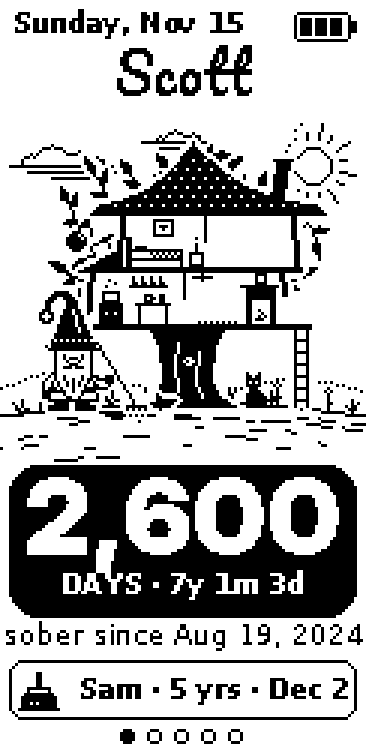
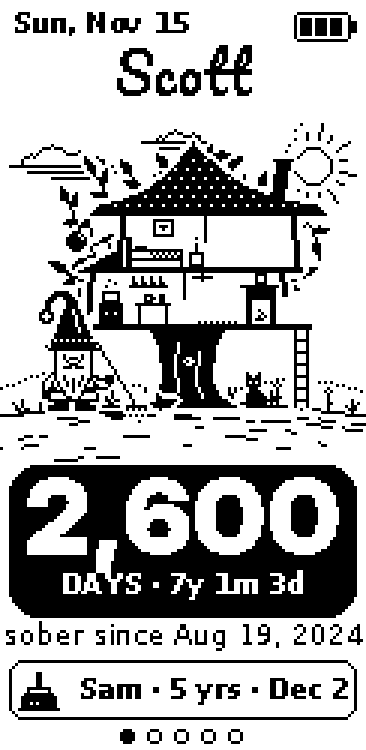
v1.6-world3: short weekday, no forced full refresh, drop Friends/Clear friends from settings
- Main screen shows the weekday as Wed instead of Wednesday.
- Remove the full refresh forced after 10 partial refreshes; full refresh still happens on going home and after the busy power-cycle recovery.
- Settings menu no longer has Friends or Clear friends.

Claude-Session: https://claude.ai/code/session_01Qm65J9CvrfsAJdUfebPo89

Changed region(s): [[0.1803, 0.0, 0.541, 0.0613], [0.571, 0.0, 0.6612, 0.0613]]

diff --git a/firmware/sobergotchi/src/app.cpp b/firmware/sobergotchi/src/app.cpp
@@ -31,7 +31,7 @@ static Mode mode = M_CAROUSEL;
 static uint8_t carousel = 0;
 static int reflectPage = 0, reflectPages = 1;
 static int friendSel = -1, menuSel = -1;
-static bool confirmDelete = false, confirmClear = false;
+static bool confirmDelete = false;
 static bool sessionDirty = false;  // a partial refresh happened since the last full one
 
 // sorted view of friends: soonest anniversary first
@@ -265,9 +265,9 @@ static int nextFriend() {  // index into store::friends of the soonest anniversa
 // ---------------------------------------------------------------------------
 // values for the screens
 // ---------------------------------------------------------------------------
-static const char* MENU_LABELS[] = {"Sober date", "Today", "Name", "Phone", "Friends", "Clear friends", "Battery", "Version", "Back"};
-static const int MENU_COUNT = 9;
-static const int MENU_BACK = 8;
+static const char* MENU_LABELS[] = {"Sober date", "Today", "Name", "Phone", "Battery", "Version", "Back"};
+static const int MENU_COUNT = 7;
+static const int MENU_BACK = 6;
 
 class Data : public UiData {
  public:
@@ -423,14 +423,12 @@ class Data : public UiData {
       case 1: formatDate(today(), "MMM d, yyyy", out, n); break;
       case 2: snprintf(out, n, "%s", store::settings.name); break;
       case 3: if (store::settings.phone[0]) formatPhone(store::settings.phone, out, n); else snprintf(out, n, "not set"); break;
-      case 4: snprintf(out, n, "%d", store::friendCount); break;
-      case 5: snprintf(out, n, "%s", confirmClear ? "press \201 again to clear all" : ""); break;
-      case 6: {
+      case 4: {
         int cv = (int)(hw::batteryVolts() * 100 + 0.5f);  // no float printf on this core
         snprintf(out, n, "%d%%  \177  %d.%02d V%s", hw::batteryPercent(), cv / 100, cv % 100, hw::charging() ? "  \177  charging" : "");
         break;
       }
-      case 7: snprintf(out, n, "%s", FIRMWARE_VERSION); break;
+      case 5: snprintf(out, n, "%s", FIRMWARE_VERSION); break;
     }
   }
 
@@ -629,7 +627,7 @@ static void handleKey(Event e) {
       else if (e == EV_KEY2) {
         if (carousel == 1) reflectPage = (reflectPage + 1) % (reflectPages ? reflectPages : 1);
         else if (carousel == 2 && store::friendCount) { mode = M_FRIENDS; friendSel = 0; }
-        else if (carousel == 3) { mode = M_MENU; menuSel = 0; confirmClear = false; }
+        else if (carousel == 3) { mode = M_MENU; menuSel = 0; }
       }
       break;
 
@@ -659,8 +657,8 @@ static void handleKey(Event e) {
       break;
 
     case M_MENU:
-      if (e == EV_KEY1 && menuSel > 0) { menuSel--; confirmClear = false; }
-      else if (e == EV_KEY3 && menuSel < MENU_COUNT - 1) { menuSel++; confirmClear = false; }
+      if (e == EV_KEY1 && menuSel > 0) menuSel--;
+      else if (e == EV_KEY3 && menuSel < MENU_COUNT - 1) menuSel++;
       else if (e == EV_KEY2_LONG) mode = M_CAROUSEL;
       else if (e == EV_KEY2) {
         switch (menuSel) {
@@ -668,12 +666,7 @@ static void handleKey(Event e) {
           case 1: startEditDate(E_TODAY); break;
           case 2: startEditText(E_NAME); break;
           case 3: startEditText(E_PHONE); break;
-          case 4: carousel = 2; mode = store::friendCount ? M_FRIENDS : M_CAROUSEL; friendSel = 0; break;
           case MENU_BACK: mode = M_CAROUSEL; break;
-          case 5:
-            if (!confirmClear) confirmClear = true;
-            else { store::clearFriends(); sortFriends(); confirmClear = false; }
-            break;
           default: break;
         }
       }
@@ -752,7 +745,7 @@ static void goHome() {
   mode = M_CAROUSEL;
   carousel = 0;
   reflectPage = 0;
-  confirmDelete = confirmClear = false;
+  confirmDelete = false;
   show(true);
   sessionDirty = false;
   shownDay = today();

diff --git a/firmware/sobergotchi/src/display.cpp b/firmware/sobergotchi/src/display.cpp
@@ -10,7 +10,6 @@ namespace display {
 
 static GxEPD2_BW<GxEPD2_213_GDEY0213B74, GxEPD2_213_GDEY0213B74::HEIGHT> epd(
     GxEPD2_213_GDEY0213B74(PIN_EPD_CS, PIN_EPD_DC, PIN_EPD_RST, PIN_EPD_BUSY));
-static int partials = 0;
 static bool awake = false;
 
 void begin() {
@@ -26,13 +25,10 @@ void begin() {
 
 void show(uint8_t screenId, UiData& data, bool full) {
   pinMode(PIN_EPD_DC, OUTPUT);  // the battery reading borrows this pin
-  if (!full && partials >= FULL_REFRESH_EVERY) full = true;
   if (full) {
     epd.setFullWindow();
-    partials = 0;
   } else {
     epd.setPartialWindow(0, 0, epd.width(), epd.height());
-    partials++;
   }
   if (digitalRead(PIN_EPD_BUSY) == HIGH) {
     // Panel stuck busy (it ignored the wake-up reset): cut its power, start it fresh, force a full refresh.
@@ -44,7 +40,6 @@ void show(uint8_t screenId, UiData& data, bool full) {
     epd.init(0, true, 2, false);
     epd.setRotation(2);
     epd.setFullWindow();
-    partials = 0;
     full = true;
     LOG("screen %d: busy pin %d after power-cycle", screenId, digitalRead(PIN_EPD_BUSY));
   }

diff --git a/firmware/sobergotchi/src/config.h b/firmware/sobergotchi/src/config.h
@@ -4,7 +4,7 @@
 #pragma once
 #include <Arduino.h>
 
-#define FIRMWARE_VERSION "1.5-world2"
+#define FIRMWARE_VERSION "1.6-world3"
 
 // 1 = rainy days turn to snow in December, January and February. Set 0 for places without snowy winters.
 #define WINTER_SNOW 1
@@ -52,7 +52,6 @@
 #define IDLE_TIMEOUT_MS        30000UL  // back to the home screen after this long without a press
 #define LONG_PRESS_MS          700UL
 #define POPUP_MS               6000UL   // how long "Friend added" / rock-paper-scissors stay up
-#define FULL_REFRESH_EVERY     10       // partial refreshes before a cleaning full refresh
 #define EXCHANGE_MS            4000UL   // how long to swap cards after the reed closes
 #define EXCHANGE_MIN_RSSI      (-60)    // ignore devices further than a few centimetres away
 #define MAX_FRIENDS            200

diff --git a/firmware/sobergotchi/src/display.h b/firmware/sobergotchi/src/display.h
@@ -7,7 +7,6 @@ namespace display {
 
 void begin();
 // Draw a screen. full = slow flashing refresh that clears ghosting; otherwise a fast partial refresh.
-// A full refresh is forced every FULL_REFRESH_EVERY partial ones.
 void show(uint8_t screenId, UiData& data, bool full);
 void sleep();  // panel into deep sleep (keeps the image, ~1 µA)
 bool probe(const char* label);  // bring-up check: full refresh with a label, true if the panel answered
